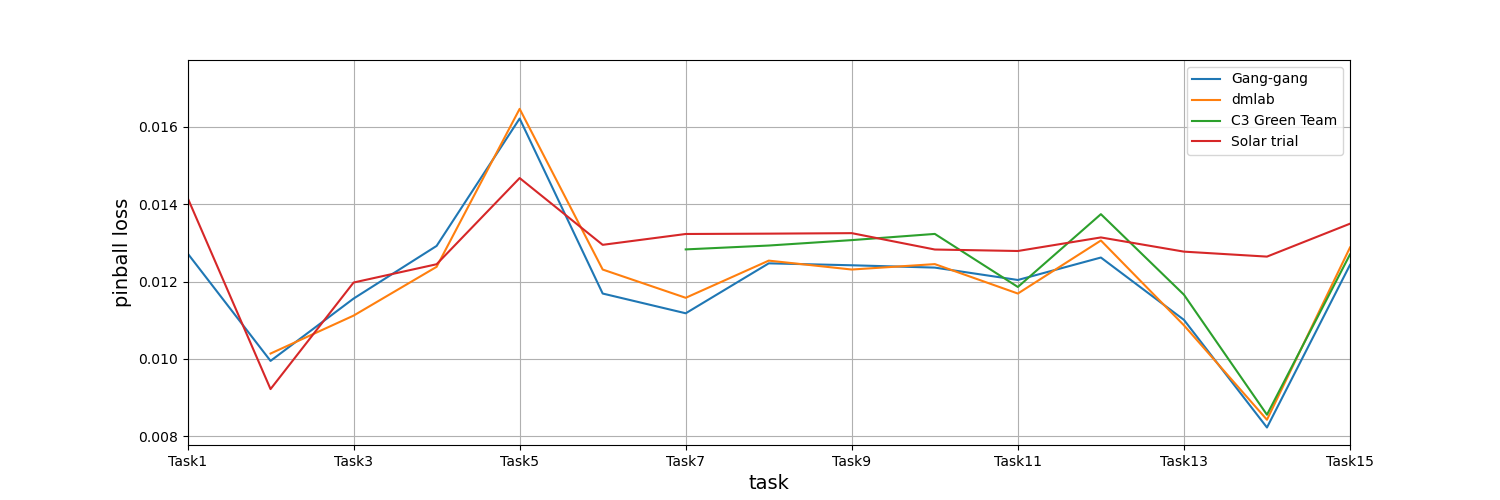
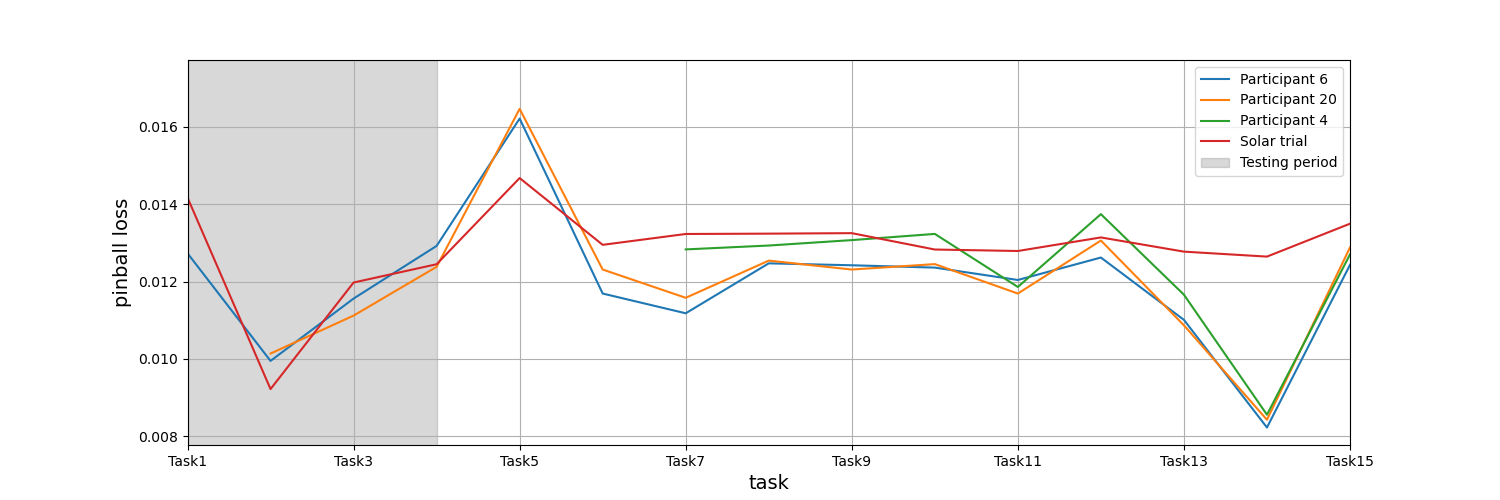
Updates.

Changed region(s): [[0.1227, 0.12, 0.3067, 0.9], [0.7973, 0.15, 0.8893, 0.36]]

diff --git a/gbdt_forecast.py b/gbdt_forecast.py
@@ -40,7 +40,6 @@ class Trial():
         self.target = params_json['target']
         self.model_params = params_json['model_params']
         self.regression_params = params_json['regression_params']
-        self.predict_train = params_json['predict_train']
         self.save_options = params_json['save_options']
 
         if 'quantile' in self.regression_params['type']:
@@ -63,10 +62,10 @@ class Trial():
             self.target_smoothing_window = params_json['target_smoothing_window']
         else: 
             self.target_smoothing_window = 1
-        if 'train_on_day_only' in params_json:
-            self.train_on_day_only = params_json['train_on_day_only']
+        if 'train_only_zenith_angle_below' in params_json:
+            self.train_only_zenith_angle_below = params_json['train_only_zenith_angle_below']
         else: 
-            self.train_on_day_only = False
+            self.train_only_zenith_angle_below = False
         if 'weight_params' in params_json: 
             self.weight_params = params_json['weight_params']
         else:
@@ -101,9 +100,9 @@ class Trial():
         is_nan = df_X.isna().all(axis=1) | df_y.isna().all(axis=1)
         df_model = pd.concat([df_X, df_y], axis=1)[~is_nan]
 
-        # Keep all timestamps for which zenith <= 100° (day timestamps)
-        if self.train_on_day_only:
-            idx_day = df_model[df_model['zenith'] <= 100].index
+        # Keep all timestamps for which zenith <= prescribed value (day timestamps)
+        if self.train_only_zenith_angle_below:
+            idx_day = df_model[df_model['zenith'] <= self.train_only_zenith_angle_below].index
             df_model = df_model.loc[idx_day, :]
 
         # Create target and feature DataFrames
@@ -345,10 +344,10 @@ class Trial():
         
         df_index = pd.DataFrame(index=df_X.index, columns=columns)
 
-        # Keep all timestamps for which zenith <= 100° (day timestamps)
-        if self.train_on_day_only:
-            idx_day = df_X['zenith'] <= 100
-            idx_night = df_X['zenith'] > 100
+        # Keep all timestamps for which zenith <= prescribed value (day timestamps)
+        if self.self.train_only_zenith_angle_below:
+            idx_day = df_X['zenith'] <= self.train_only_zenith_angle_below
+            idx_night = df_X['zenith'] > self.train_only_zenith_angle_below
             df_X = df_X[idx_day]
 
         df_y_pred_qs = {}
@@ -386,7 +385,7 @@ class Trial():
 
         # Create prediction output dataframe
         df_y_pred_q = df_index
-        if self.train_on_day_only:
+        if self.train_only_zenith_angle_above:
             df_y_pred_q[idx_day] = y_pred_q
             df_y_pred_q[idx_night] = 0
         else:
@@ -576,7 +575,7 @@ class Trial():
 
     def run(self, df):
 
-        print('Running trial pipeline...')
+        print('Running trial pipeline for trial: {0}...'.format(self.trial_name))
         dfs_X_train_split, dfs_y_train_split, dfs_model_train_split, weight_train_split = self.generate_dataset_split_site(df, split_set='train')
         dfs_X_valid_split, dfs_y_valid_split, dfs_model_valid_split, _ = self.generate_dataset_split_site(df, split_set='valid')
 

diff --git a/plots/generate_plots_wind.py b/plots/generate_plots_wind.py
@@ -13,36 +13,36 @@ def load_loss(path):
     return dfs_split
 
 if __name__ == '__main__':
-    path = './result/gefcom2014-solar/trial21/dfs_loss_valid_model/*.csv'
+    path = './result/gefcom2014-wind/trial11/dfs_loss_valid_model/*.csv'
     dfs_loss_split_valid = load_loss(path)
     loss_mean_valid = [df.mean().mean() for df in dfs_loss_split_valid]
 
     # Load competition scores
-    df_scores = pd.read_excel('./data/gefcom2014/gefcom2014-scores.xlsx', index_col=0, header=0, sheet_name='Solar')
+    df_scores = pd.read_excel('./data/gefcom2014/gefcom2014-scores.xlsx', index_col=0, header=0, sheet_name='Wind')
     df_scores.index = ['Participant {0}'.format(i+1) for i in range(len(df_scores.index))]
-    df_scores.loc['Solar trial',:] = loss_mean_valid
+    df_scores.loc['Wind trial',:] = loss_mean_valid
     df_scores.loc[:,'Overall'] = df_scores.iloc[:, 4:].mean(axis=1)
-    df_scores = df_scores.rename(index={'Participant 3': 'Benchmark'})
+    df_scores = df_scores.rename(index={'Participant 4': 'Benchmark'})
 
     # Plot scores for teams
     ax = df_scores['Overall'].sort_values().plot.bar(figsize=(15,5))
     ax.set_ylabel('pinball loss', fontsize=14)
     plt.tight_layout()
-    plt.savefig('./plots/gefcom2014-solar-teams.png')
+    plt.savefig('./plots/gefcom2014-wind-teams.png')
 
     # Plot scores for tasks
     fig, ax = plt.subplots(figsize=(15,5))
     fig, ax = plt.subplots(figsize=(15,5))
-    df_scores.loc['Participant 6',:][:-1].plot(ax=ax)
-    df_scores.loc['Participant 20',:][:-1].plot(ax=ax)
-    df_scores.loc['Participant 4',:][:-1].plot(ax=ax)
+    df_scores.loc['Participant 12',:][:-1].plot(ax=ax)
+    df_scores.loc['Participant 3',:][:-1].plot(ax=ax)
+    df_scores.loc['Participant 11',:][:-1].plot(ax=ax)
     ylim = ax.get_ylim()
     df_area = pd.DataFrame(data=np.repeat(ylim[1], 4), index=df_scores.columns[:4], columns=['Testing period'])
     df_area.plot.area(ax=ax, color='grey', alpha=0.3)
-    df_scores.loc['Solar trial',:][:-1].plot(ax=ax)
+    df_scores.loc['Wind trial',:][:-1].plot(ax=ax)
     ax.set_ylim(ylim[0], ylim[1])
     ax.set_xlabel('task', fontsize=14)
     ax.set_ylabel('pinball loss', fontsize=14)
     ax.grid()
     ax.legend()
-    plt.savefig('./plots/gefcom2014-solar-tasks.png')
+    plt.savefig('./plots/gefcom2014-wind-tasks.png')

diff --git a/generate_plots_solar.py b/generate_plots_solar.py
@@ -1,0 +1,38 @@
+import glob
+import pandas as pd
+import matplotlib.pyplot as plt
+
+def load_loss(path): 
+    files = glob.glob(path)
+    dfs_split = []
+    for file in files: 
+        df = pd.read_csv(file, index_col=[0,1], header=[0,1])
+        dfs_split.append(df)
+    
+    return dfs_split
+
+if __name__ == '__main__':
+    path = '../result/gefcom2014-solar/trial21/dfs_loss_valid_model/*.csv'
+    dfs_loss_split_valid = load_loss(path)
+    loss_mean_valid = [df.mean().mean() for df in dfs_loss_split_valid]
+
+    # Load competition scores
+    df_scores = pd.read_excel('../data/gefcom2014/gefcom2014-scores.xlsx', index_col=0, header=0, sheet_name='Solar')
+    df_scores.loc['Solar trial',:] = loss_mean_valid
+    df_scores.loc[:,'Overall'] = df_scores.mean(axis=1)
+
+    # Plot scores for teams
+    ax = df_scores['Overall'].sort_values().plot.bar(figsize=(15,5))
+    ax.set_ylabel('pinball loss', fontsize=14)
+    plt.savefig('./gefcom2014-solar-teams.png')
+
+    # Plot scores for tasks
+    fig, ax = plt.subplots(figsize=(15,5))
+    df_scores.loc['Gang-gang',:][:-1].plot(ax=ax)
+    df_scores.loc['dmlab',:][:-1].plot(ax=ax)
+    df_scores.loc['C3 Green Team',:][:-1].plot(ax=ax)
+    df_scores.loc['Solar trial',:][:-1].plot(ax=ax)
+    ax.set_xlabel('task', fontsize=14)
+    ax.set_ylabel('pinball loss', fontsize=14)
+    ax.legend()
+    plt.savefig('./gefcom2014-solar-tasks.png')

diff --git a/preprocess/preprocess_gefcom2014_wind_example.py b/preprocess/preprocess_gefcom2014_wind_example.py
@@ -45,8 +45,8 @@ def preprocess_wind(df, target, features):
         for feature in df_features.columns:
             df.loc[:, (farm, feature)] = df_features[feature]
 
-    df_temp = pd.DataFrame(index=df.index, columns=pd.MultiIndex.from_product([df.columns.levels[0], target+features]))
-    df_temp.loc[:, (slice(None), target+features)] = df.loc[:, (slice(None), target+features)]
+    df_temp = pd.DataFrame(index=df.index, columns=pd.MultiIndex.from_product([df.columns.levels[0], [target]+features]))
+    df_temp.loc[:, (slice(None), [target]+features)] = df.loc[:, (slice(None), [target]+features)]
 
     return df_temp
 

diff --git a/README.md b/README.md
@@ -52,7 +52,7 @@ Solar track data saved to: ./data/raw/gefcom2014-solar-raw.csv
 Load track data saved to: ./data/raw/gefcom2014-load-raw.csv
 ```
 
-## 3) Preprocessing the GEFCom2014 data
+### 3) Preprocessing the GEFCom2014 data
 Next step is to preprocess the data with feature extraction relavent for the forecasting task at hand. This repo includes examples of feature extraction for the different GEFCom2014 tracks: 
 
 ```
@@ -73,17 +73,23 @@ the processed data file will be saved to:
 Wind track preprocessed data saved to: ./data/gefcom2014/preprocessed/gefcom2014-wind-preprocessed.csv
 ```
 
-## 3) Train models and predict 
+## 4) Train models and predict 
 To train models, predict and save the results run the following script:
 
 ```
 python ./main.py params/params_competition_gefcom2014_wind_example.json
 ```
 
-The results will be saved to the `results` folder. 
+The results will be saved to the `results` folder. Train models for other tracks by changing the parameters file. 
 
-## 4) Generate plots
-Lastly, generate plots
+## 5) Generate plots
+Lastly, generate plots by running the following: 
+
+```
+python ./plots/generate_plots_wind.py
+```
+
+Plots will be saved to the `plots` folder.
 
 ## References
 
